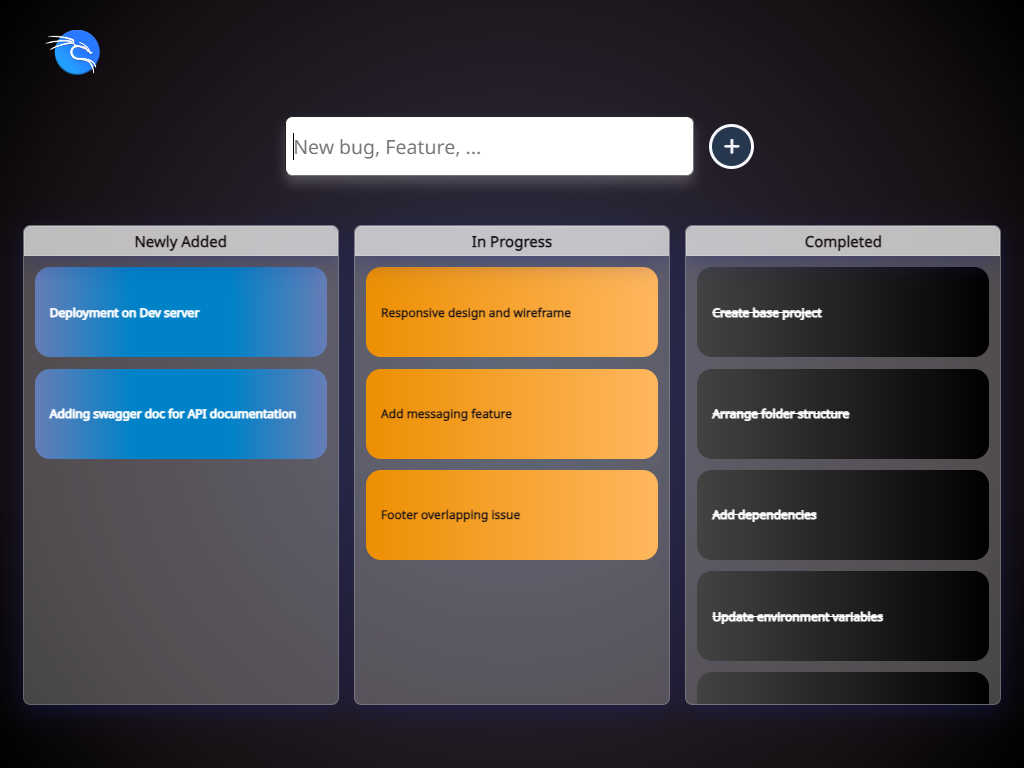
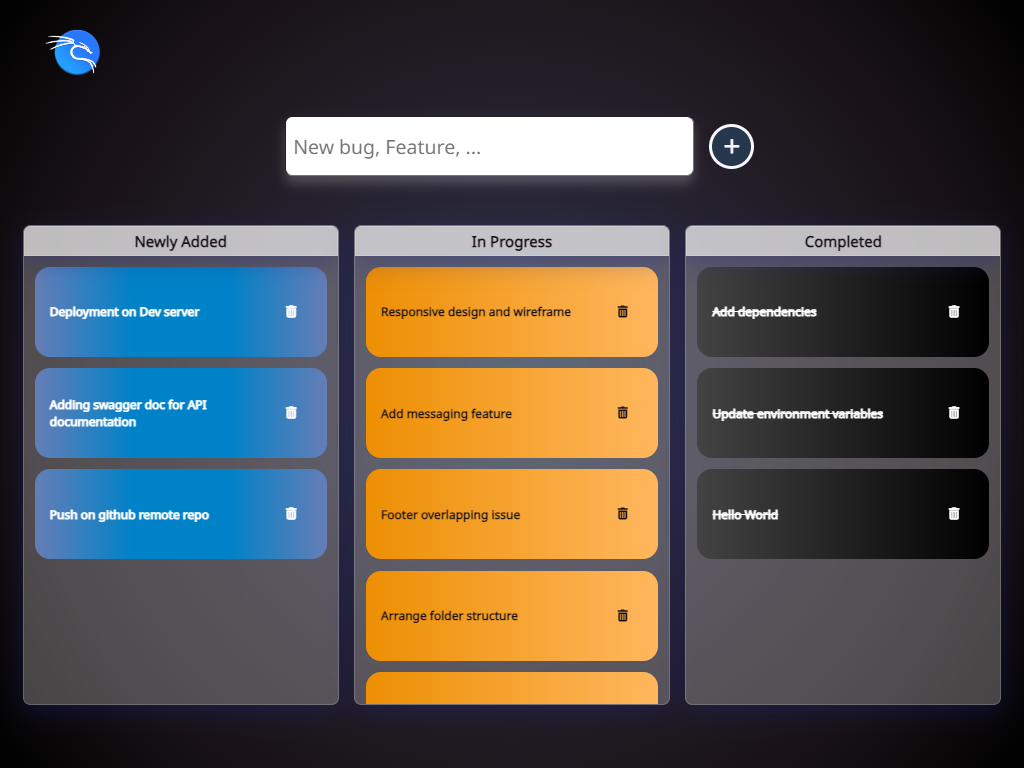
updated task 2 added delete functionality

diff --git a/Task2/script.js b/Task2/script.js
@@ -1,18 +1,46 @@
-const getUrlFunc = (arr) => {
+const getUrlFunc = (arr, name) => {
   const getUrl = arr.map((e, i) => {
     return `<div class="item" draggable="true" ondragstart="drag(event)" key="${i}">
             <h4>${e}</h4>
             <div>
+            <i class="fa-solid fa-trash-can" onclick="deleteEvent('${e}','${name}')"></i>
             </div>
         </div>`;
   });
   return getUrl;
 };
+document
+  .getElementById("taskAdder")
+  .addEventListener("keyup", function (event) {
+    event.preventDefault();
+    if (event.key === "Enter") {
+      document.getElementById("addNewTask").click();
+    }
+  });
+
 function allowDrop(ev) {
   ev.preventDefault();
 }
+function deleteEvent(e, list) {
+  var arr;
+  if (list == "first") {
+    arr = JSON.parse(localStorage.getItem("new")) || [];
+    arr = arr.filter((text) => text != e);
+    localStorage.setItem("new", JSON.stringify(arr));
+    firstArrFetch();
+  } else if (list == "second") {
+    arr = JSON.parse(localStorage.getItem("inprogress")) || [];
+    arr = arr.filter((text) => text != e);
+    localStorage.setItem("inprogress", JSON.stringify(arr));
+    secondArrFetch();
+  } else {
+    arr = JSON.parse(localStorage.getItem("completed")) || [];
+    arr = arr.filter((text) => text != e);
+    localStorage.setItem("completed", JSON.stringify(arr));
+    thirdArrFetch();
+  }
+}
 function drag(event) {
-  console.log(event.srcElement.innerText ,"-"+event.srcElement.offsetParent.className);
   event.dataTransfer.setData(
     "text",
     `${event.srcElement.innerText} -${event.srcElement.offsetParent.className}`
@@ -21,21 +49,21 @@ function drag(event) {
 function firstArrFetch() {
   var storedNewTasks = JSON.parse(localStorage.getItem("new")) || [];
   const first = document.getElementById("first");
-  const getUrl = getUrlFunc(storedNewTasks);
+  const getUrl = getUrlFunc(storedNewTasks, "first");
   first.innerHTML = getUrl.join("");
 }
 function secondArrFetch() {
   var storedInProgressTasks =
     JSON.parse(localStorage.getItem("inprogress")) || [];
   const second = document.getElementById("second");
-  const getUrl = getUrlFunc(storedInProgressTasks);
+  const getUrl = getUrlFunc(storedInProgressTasks, "second");
   second.innerHTML = getUrl.join("");
 }
 function thirdArrFetch() {
   var storedCompletedTasks =
     JSON.parse(localStorage.getItem("completed")) || [];
   const third = document.getElementById("third");
-  const getUrl = getUrlFunc(storedCompletedTasks);
+  const getUrl = getUrlFunc(storedCompletedTasks, "third");
   third.innerHTML = getUrl.join("");
 }
 

diff --git a/Task2/index.html b/Task2/index.html
@@ -57,13 +57,11 @@
       function dropOnSecond(e) {
         e.preventDefault();
         var data = e.dataTransfer.getData("text").split("-");
-        console.log(data[0].trim());
-        
+
         if (data[1] == "second") return;
         if (data[1] == "first") {
           var storedNewTasks = JSON.parse(localStorage.getItem("new")) || [];
           storedNewTasks = storedNewTasks.filter((e) => e != data[0].trim());
-          console.log("update",storedNewTasks);
           localStorage.setItem("new", JSON.stringify(storedNewTasks));
           firstArrFetch();
         } else {
@@ -91,7 +89,6 @@
         e.preventDefault();
         var data = e.dataTransfer.getData("text").split("-");
         if (data[1] == "third") return;
-        console.log(data[0].trim());
 
         if (data[1] == "first") {
           var storedNewTasks = JSON.parse(localStorage.getItem("new")) || [];
@@ -120,11 +117,13 @@
       function addTask(e) {
         var storedNewTasks = JSON.parse(localStorage.getItem("new")) || [];
         const task = document.getElementById("taskAdder");
+        if (task.value.trim() === "") return;
         storedNewTasks.push(task.value.trim());
         localStorage.setItem("new", JSON.stringify(storedNewTasks));
         task.value = "";
         firstArrFetch();
       }
+      
     </script>
     <div class="main">
       <div class="title">
@@ -140,7 +139,9 @@
           autocomplete="off"
           id="taskAdder"
         />
-        <button onclick="addTask()"><i class="fa-solid fa-plus"></i></button>
+        <button id="addNewTask" onclick="addTask()">
+          <i class="fa-solid fa-plus"></i>
+        </button>
       </div>
       <div class="secondBlock">
         <div

diff --git a/Task2/style.css b/Task2/style.css
@@ -109,7 +109,19 @@ body {
   min-height: 120px;
   display: flex;
   align-items: center;
+  justify-content: space-between;
   cursor: grab;
+}
+.item > h4 {
+  width: 80%;
+  word-wrap: break-word;
+}
+.item > div > i {
+  cursor: pointer;
+  padding: 20px;
+}
+.item > div > i:hover {
+  color: red;
 }
 .first > div > .item {
   background: #667db6;
@@ -135,7 +147,7 @@ body {
   background: linear-gradient(to right, #434343, #000000);
 }
 
-.third > div >.item> h4 {
+.third > div > .item > h4 {
   text-decoration: line-through;
 }
 
